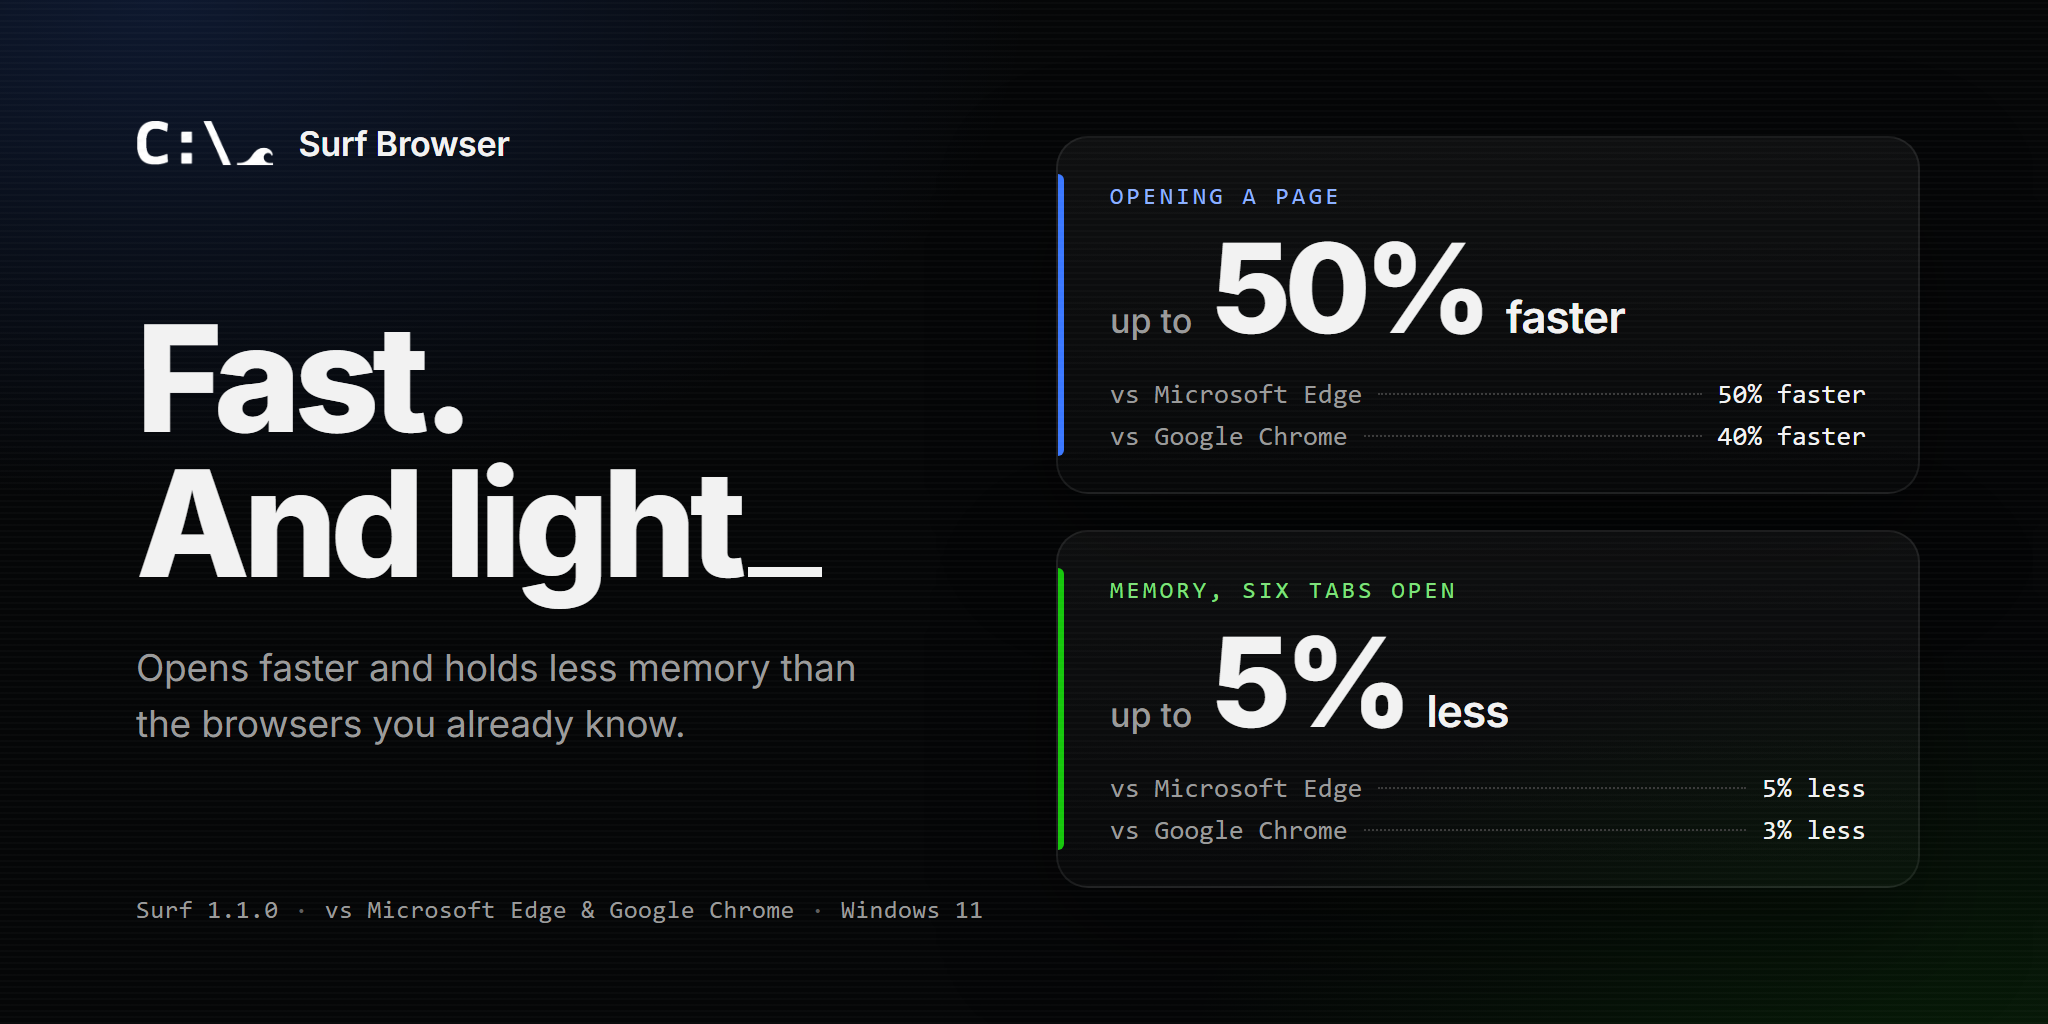
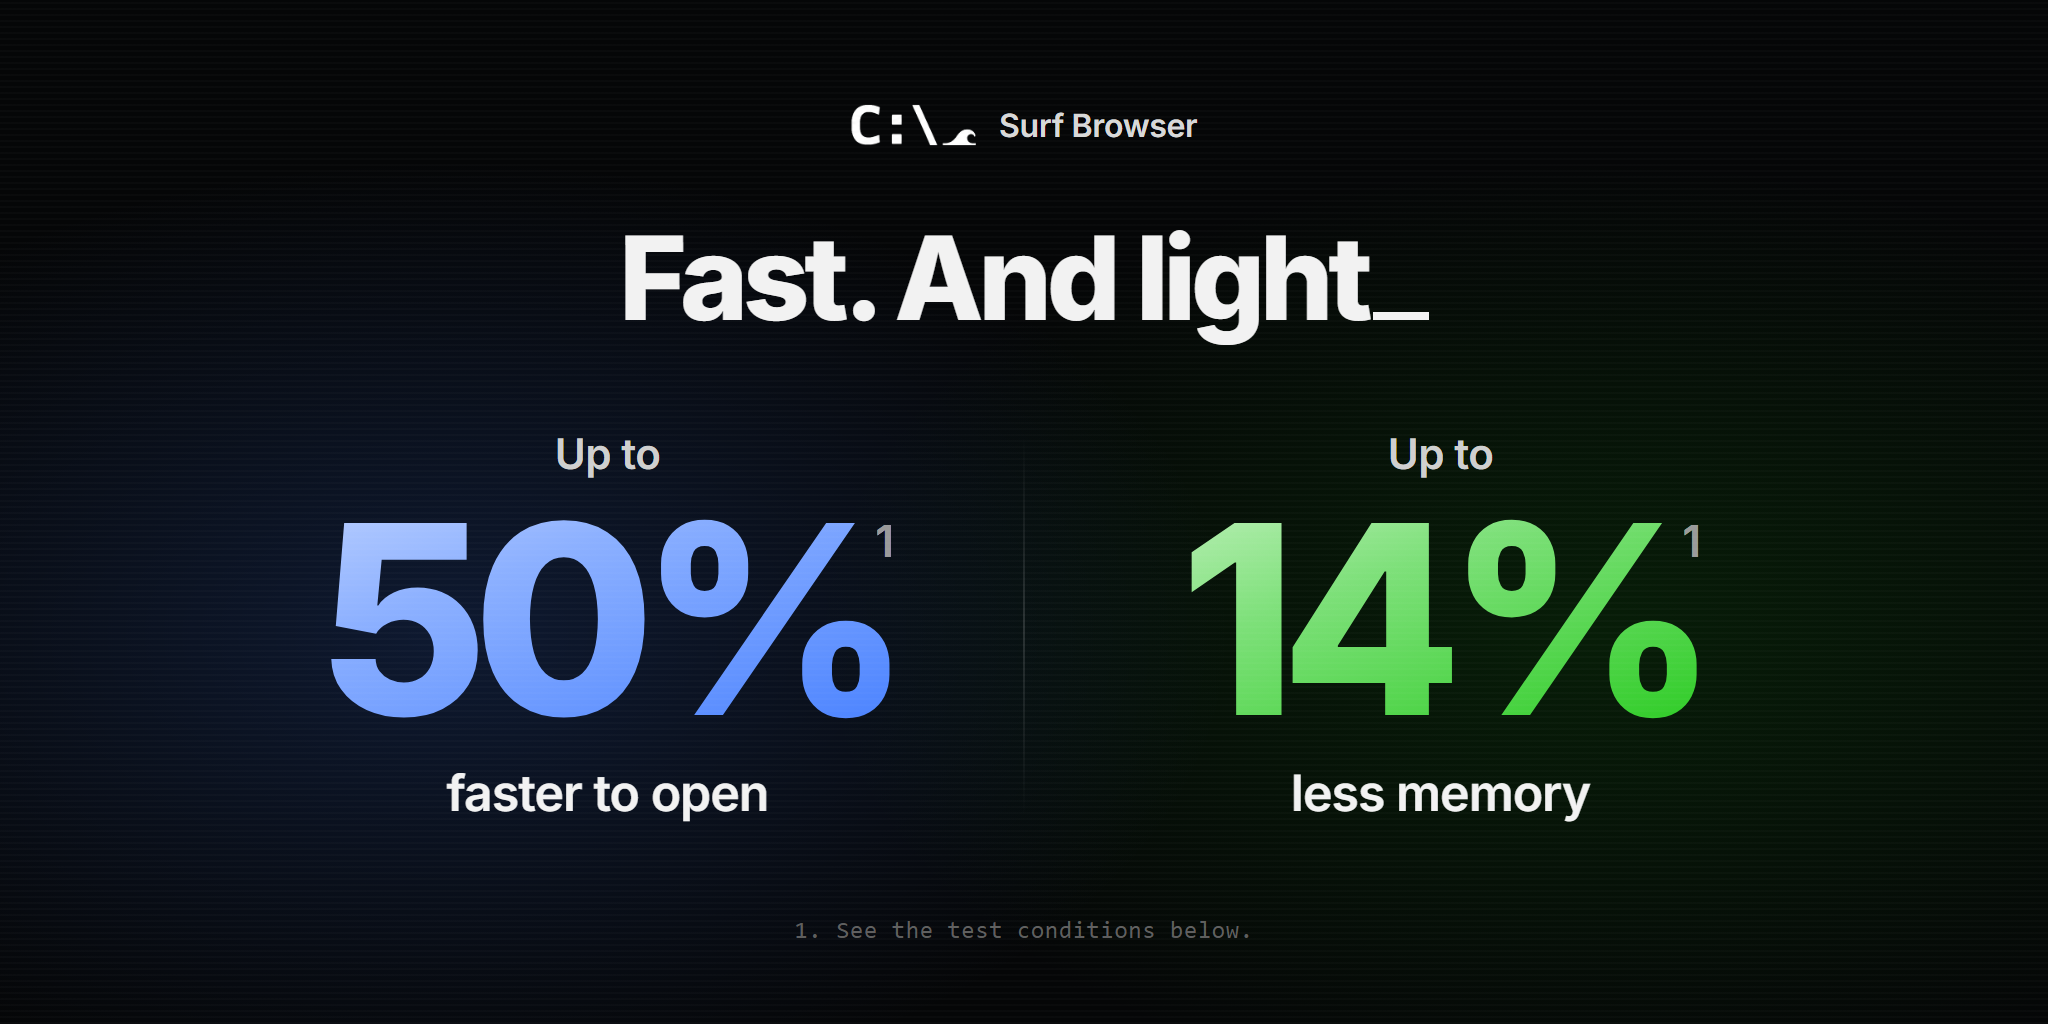
Make the comparison image headline-style: up to 50% faster, up to 14% less memory

diff --git a/README.md b/README.md
@@ -52,12 +52,12 @@ A site name opens the site. Anything that is not a command is searched. Everythi
 ## Fast and light
 
 <p align="center">
-  <img src="assets/performance.png" alt="Fast. And light. Opening a page: up to 50% faster, 50% faster than Microsoft Edge and 40% faster than Google Chrome. Memory with six tabs open: up to 5% less, 5% less than Microsoft Edge and 3% less than Google Chrome." width="100%">
+  <img src="assets/performance.png" alt="Fast. And light. Up to 50% faster to open, and up to 14% less memory." width="100%">
 </p>
 
 Surf uses the same Chromium engine as Edge, without Edge's extra background services, and tells background tabs to give memory back. With **Keep Surf ready in the background** on, it waits from the moment you sign in and opens almost instantly.
 
-<sub>Measured on one Windows 11 PC against Edge 156 and Chrome 156, each on a fresh profile. Opening: from launch to a loaded page, with Keep Surf ready on. Memory: every process of the browser added up, a minute after opening YouTube, Wikipedia, GitHub, Reddit and a Google search, with Block ads off, since Edge and Chrome block no ads by default.</sub>
+<sub>1. Tested on one Windows 11 PC against Microsoft Edge 156 and Google Chrome 156, each on a fresh profile. Opening: from launch to a loaded page, with Keep Surf ready in the background on. Memory: all of the browser's processes added up, with one tab open and Block ads off, since Edge and Chrome block no ads by default. Results vary with the PC and the sites you visit.</sub>
 
 ## Features
 
